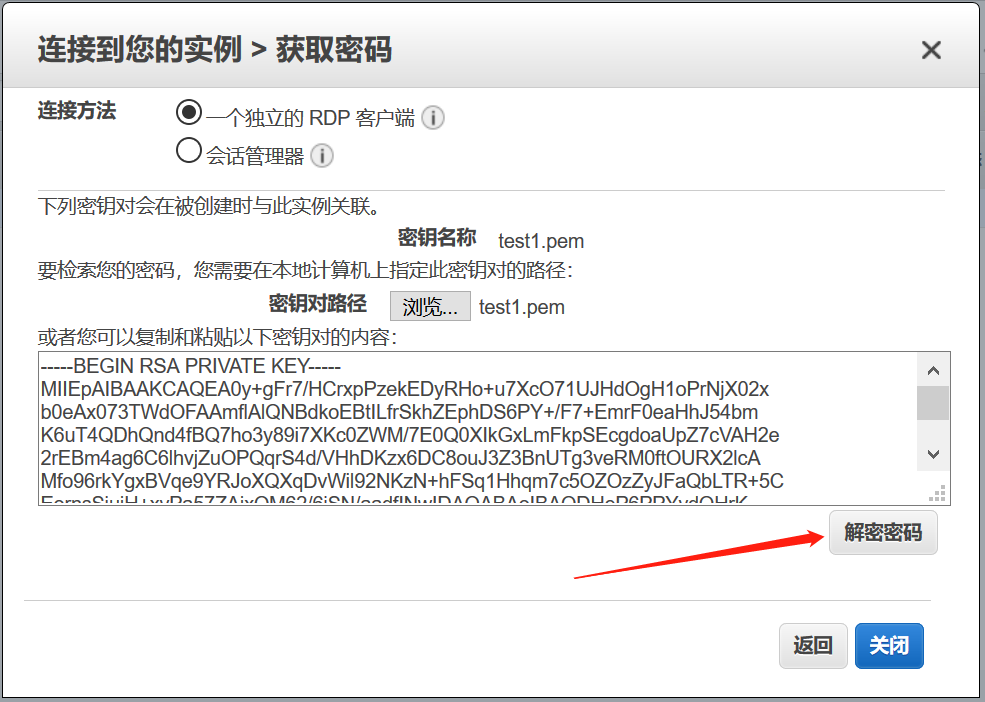
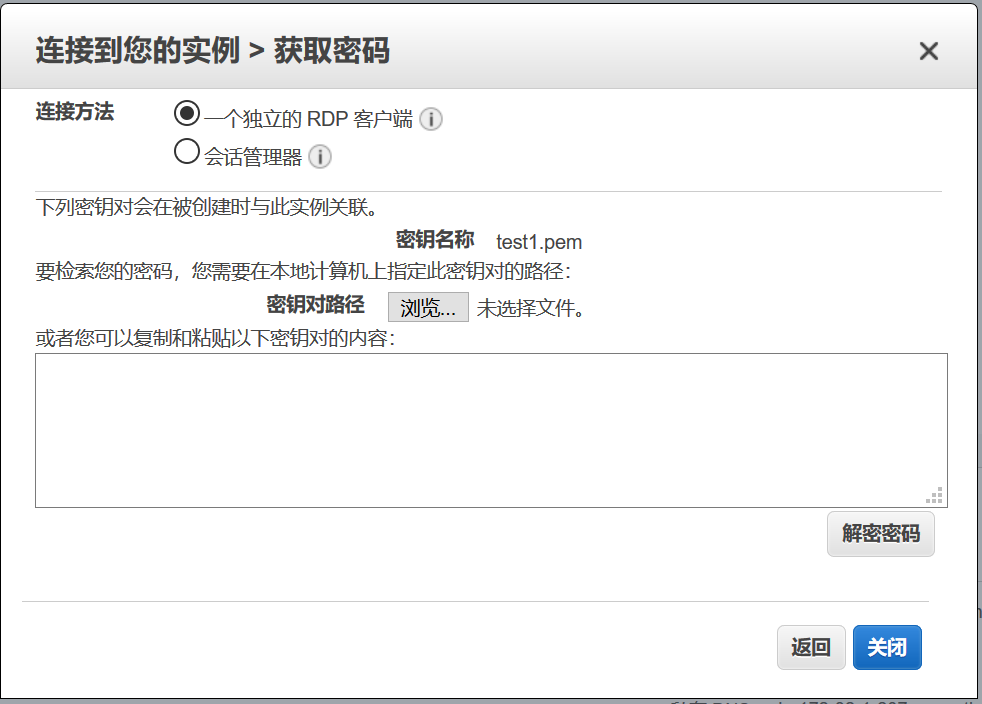
GitBook: [master] one page and 13 assets modified

diff --git a/service-documents/vm-management.md b/service-documents/vm-management.md
@@ -24,23 +24,19 @@
 
 在EC2实例控制台选中所要登录的Windows机器，点击**连接。**
 
-![](../.gitbook/assets/image%20%2817%29.png)
+![](../.gitbook/assets/image%20%2825%29.png)
 
 点击弹框中的**获取密码。**
 
-![&#x9009;&#x62E9;&#x83B7;&#x53D6;&#x5BC6;&#x7801;](../.gitbook/assets/image%20%2819%29.png)
+![](../.gitbook/assets/image%20%2829%29.png)
 
-根据创建时所选带**.pem**的密钥，在**浏览**中找到放置在本地的密钥文件，通过该密钥**解压密码**。
+![](../.gitbook/assets/image%20%2834%29.png)
 
-![&#x4E0A;&#x4F20;&#x5BC6;&#x94A5;](../.gitbook/assets/image%20%2821%29.png)
 
-![&#x89E3;&#x5BC6;&#x5BC6;&#x94A5;&#x83B7;&#x5F97;&#x5BC6;&#x7801;](../.gitbook/assets/image%20%2824%29.png)
-
-![&#x70B9;&#x51FB;&#x590D;&#x5236;&#x5BC6;&#x7801;](../.gitbook/assets/image%20%288%29.png)
 
 用windows自带的远程连接去连，公网IP在EC2实例控制台上可查看。
 
-![&#x67E5;&#x627E;EC2&#x516C;&#x7F51;ip](../.gitbook/assets/image%20%283%29.png)
+![](../.gitbook/assets/image%20%2830%29.png)
 
 ![&#x4F7F;&#x7528;window&#x8FDC;&#x7A0B;&#x8FDE;&#x63A5;](../.gitbook/assets/image.png)
 
